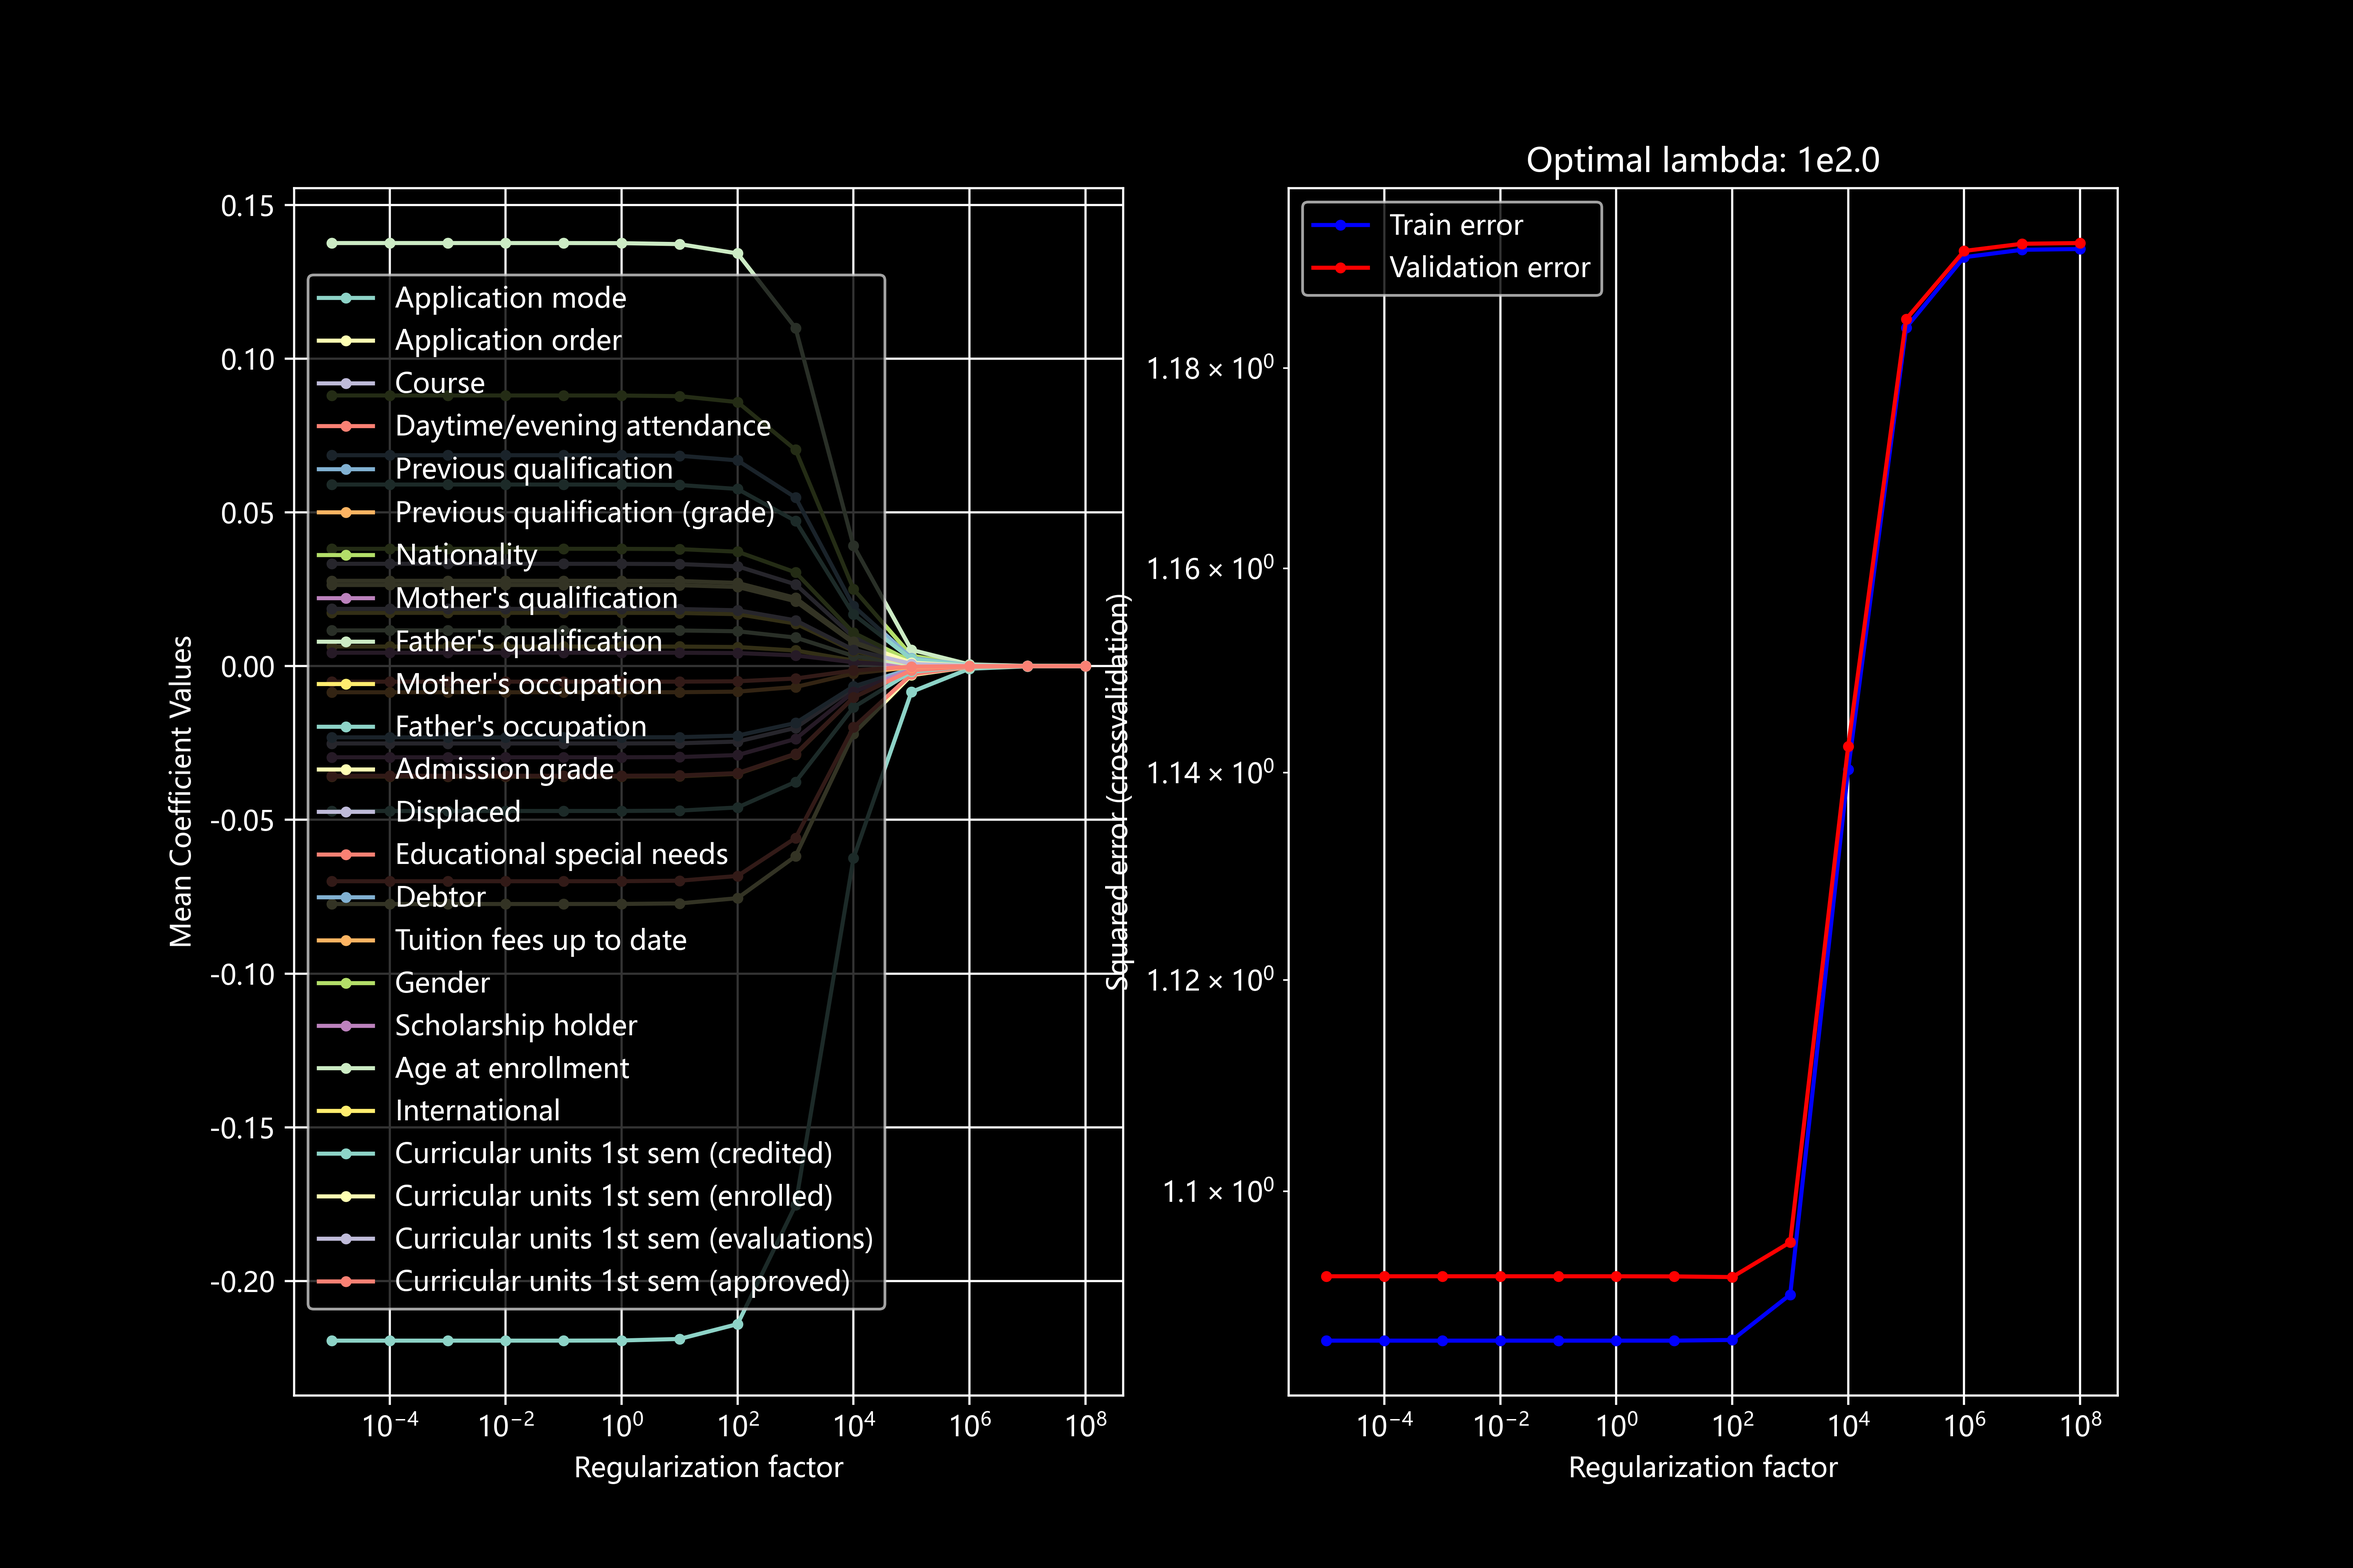
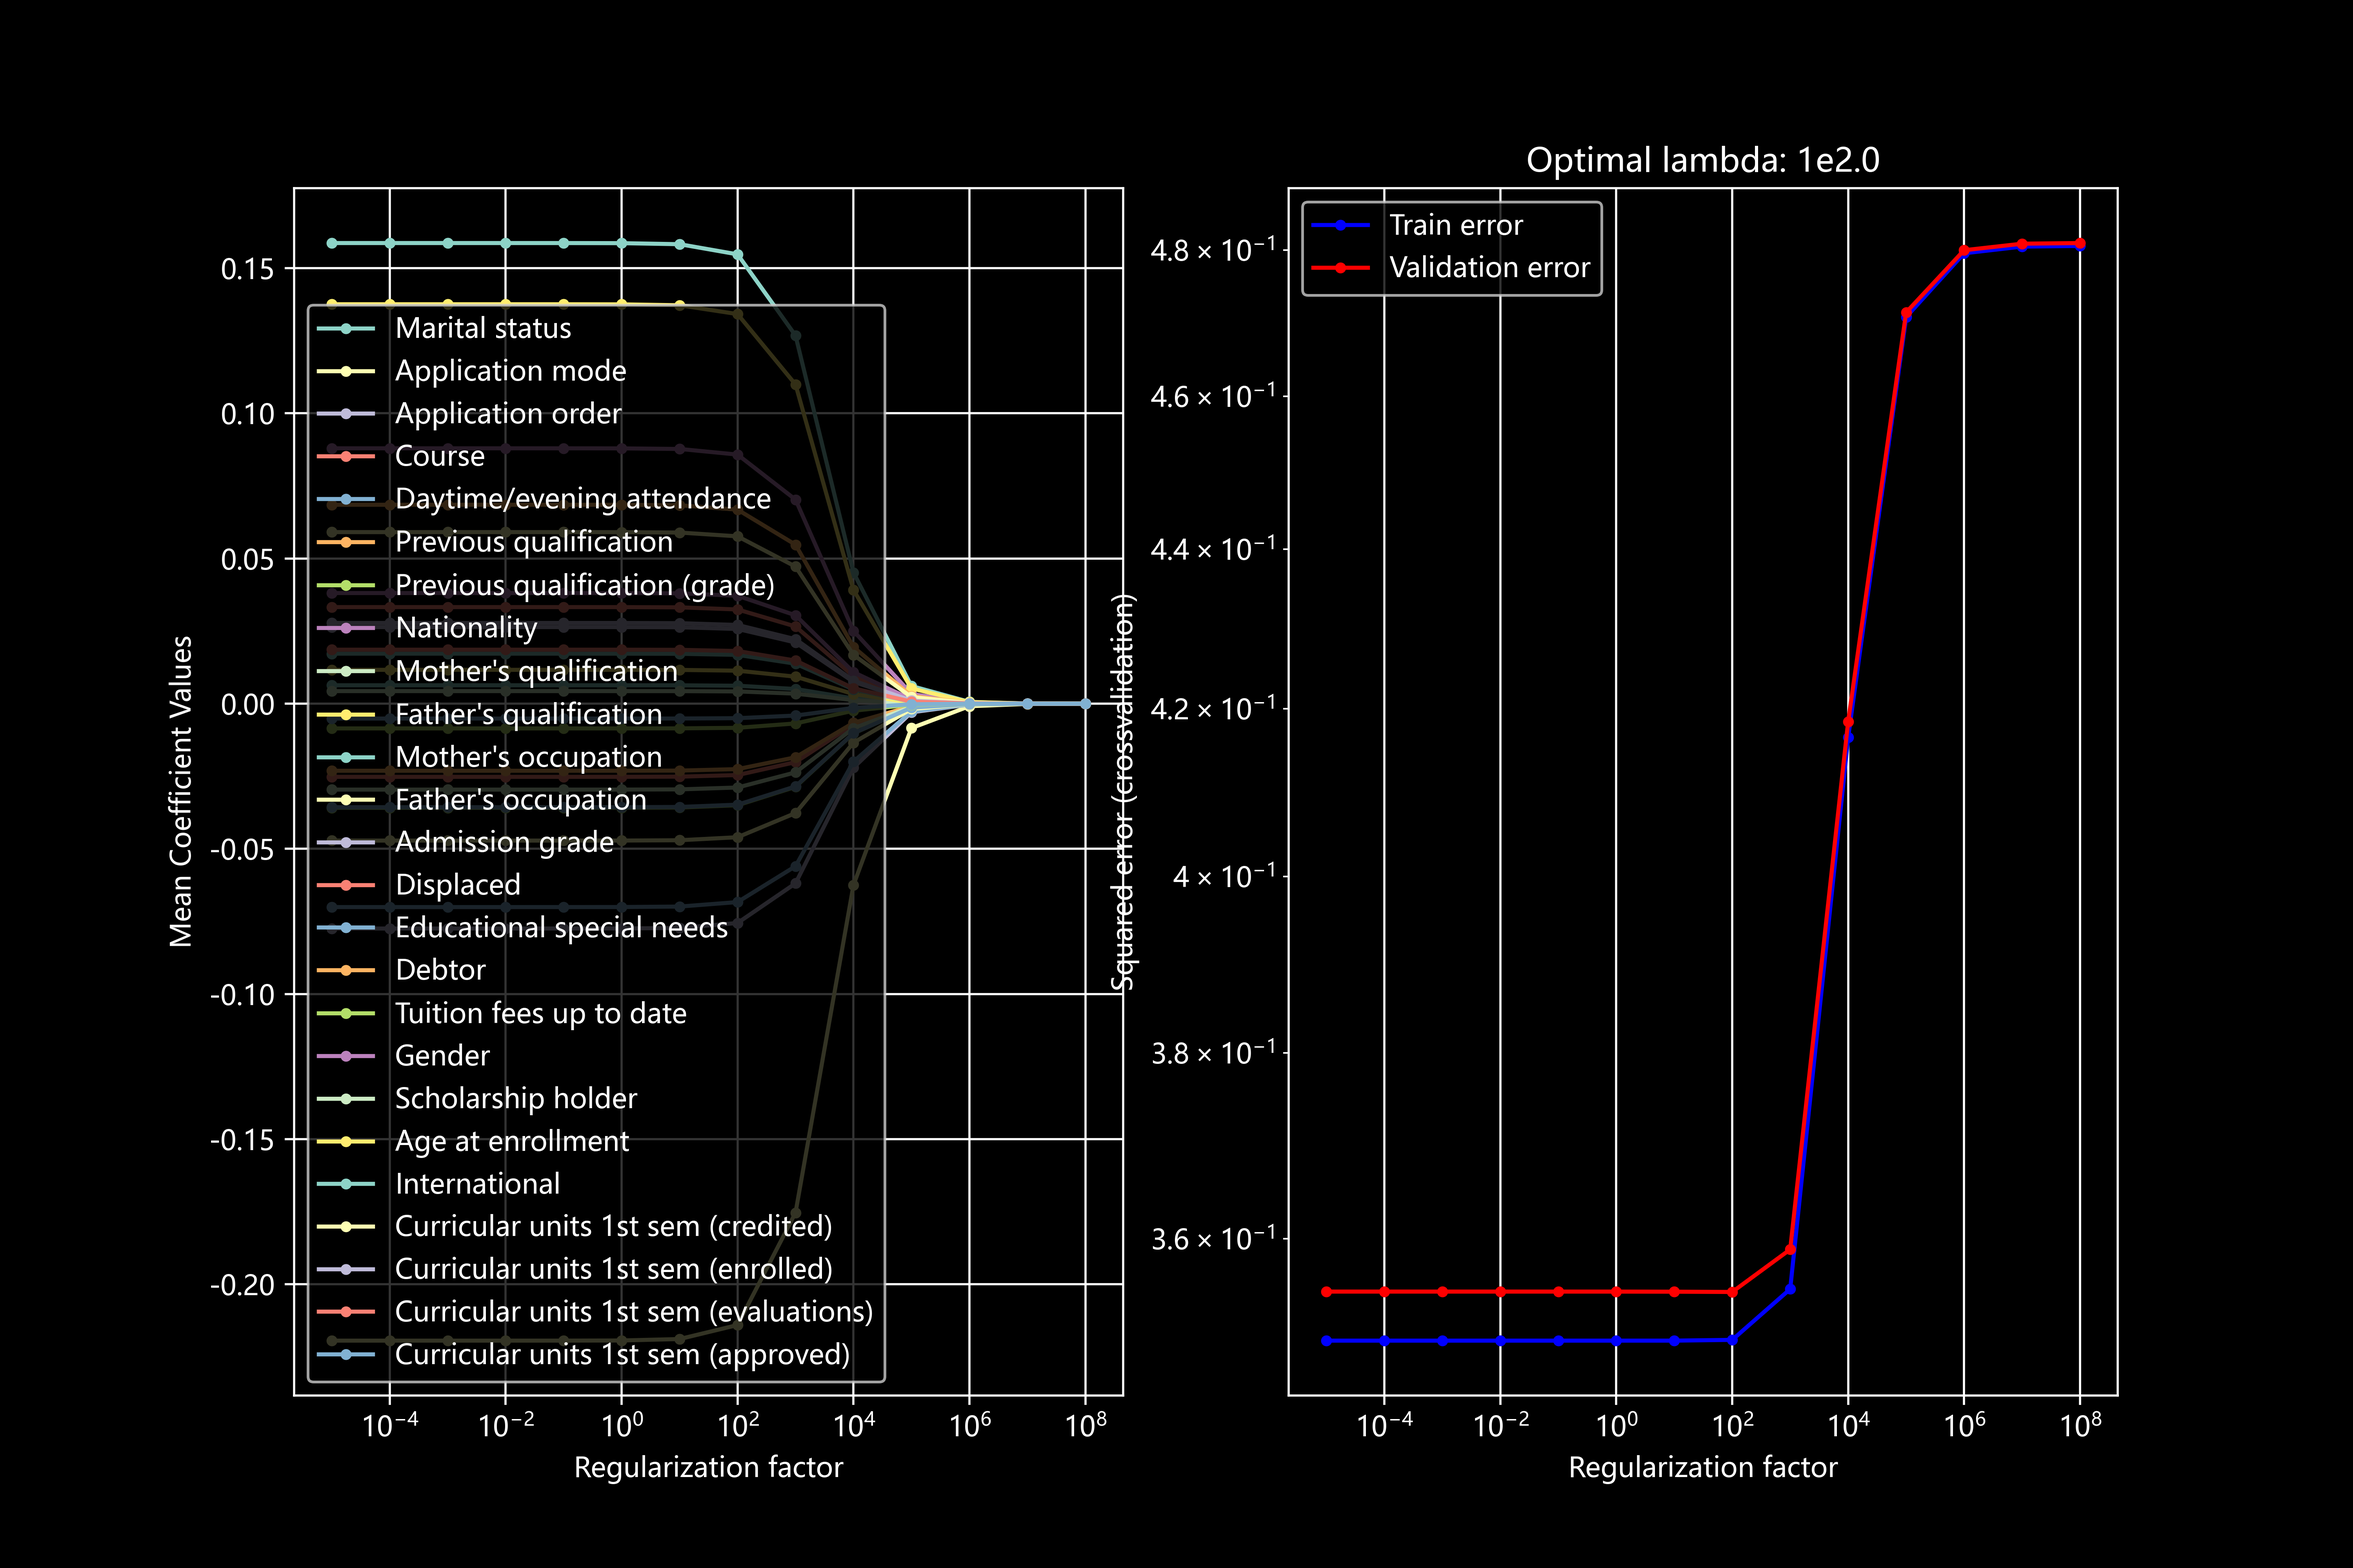
1

diff --git a/part_a.py b/part_a.py
@@ -63,6 +63,10 @@ X = pca_data
 y = np.array(target_to_num)
 N, M = X.shape
 
+# Add offset attribute
+X = np.concatenate((np.ones((X.shape[0],1)),X),1)
+attributeNames = [u'Offset']+attributeNames
+M = M+1
 
 ## Crossvalidation
 # Create crossvalidation partition for evaluation
@@ -70,19 +74,9 @@ K = 10
 CV = model_selection.KFold(K, shuffle=True)
 lambdas = np.power(10.,range(-5,9))
 
-# Initialize variables
-#T = len(lambdas)
-Error_train = np.empty((K,1))
-Error_test = np.empty((K,1))
-Error_train_rlr = np.empty((K,1))
-Error_test_rlr = np.empty((K,1))
-Error_train_nofeatures = np.empty((K,1))
-Error_test_nofeatures = np.empty((K,1))
-w_rlr = np.empty((M,K))
 opt_val_err, opt_lambda, mean_w_vs_lambda, train_err_vs_lambda, test_err_vs_lambda = rlr_validate(X, y, lambdas, K)
 
 # Display the results for the last cross-validation fold
-
 figure(K, figsize=(12,8))
 subplot(1,2,1)
 semilogx(lambdas,mean_w_vs_lambda.T[:,1:],'.-') # Don't plot the bias term
@@ -103,20 +97,3 @@ grid()
 
 plt.savefig("my_plot.png", dpi=500)  # 如果要保存图
 show()
-# Display results
-print('Linear regression without feature selection:')
-print('- Training error: {0}'.format(Error_train.mean()))
-print('- Test error:     {0}'.format(Error_test.mean()))
-print('- R^2 train:     {0}'.format((Error_train_nofeatures.sum()-Error_train.sum())/Error_train_nofeatures.sum()))
-print('- R^2 test:     {0}\n'.format((Error_test_nofeatures.sum()-Error_test.sum())/Error_test_nofeatures.sum()))
-print('Regularized linear regression:')
-print('- Training error: {0}'.format(Error_train_rlr.mean()))
-print('- Test error:     {0}'.format(Error_test_rlr.mean()))
-print('- R^2 train:     {0}'.format((Error_train_nofeatures.sum()-Error_train_rlr.sum())/Error_train_nofeatures.sum()))
-print('- R^2 test:     {0}\n'.format((Error_test_nofeatures.sum()-Error_test_rlr.sum())/Error_test_nofeatures.sum()))
-
-print('Weights in last fold:')
-for m in range(M):
-    print('{:>15} {:>15}'.format(attributeNames[m], np.round(w_rlr[m,-1],2)))
-
-print('Ran Exercise 8.1.1')
